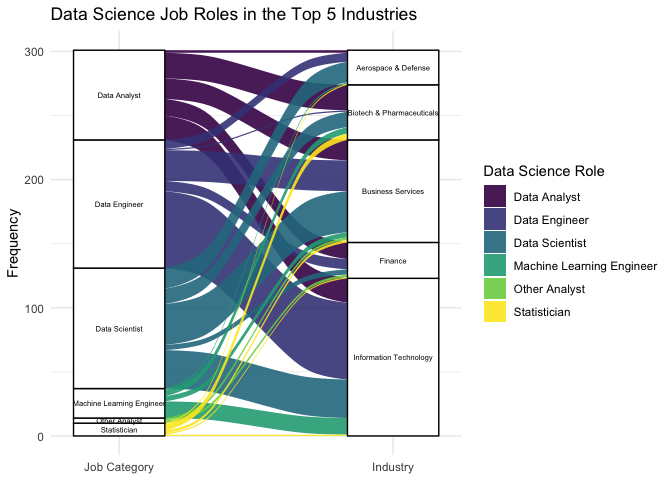
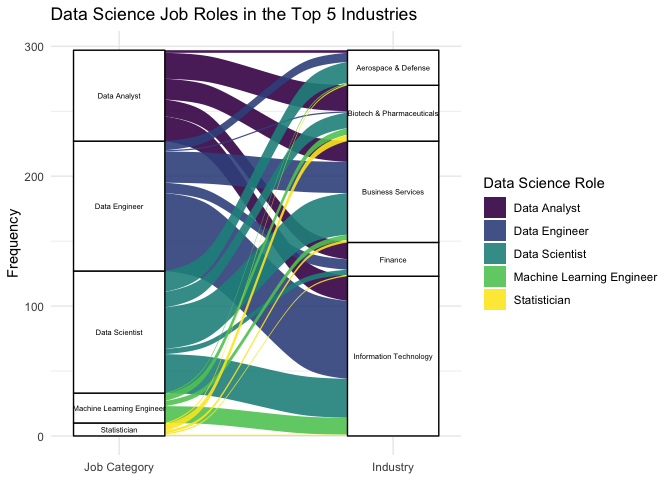
updated the graph

diff --git a/EDA/Job_Types.md b/EDA/Job_Types.md
@@ -147,7 +147,7 @@ ds_filter3 <- ds_filter2 %>%
 ds_filter2 <- ds_filter2 %>%
   filter(industry == ds_filter3$industry) %>%
   filter(!is.na(job_category)) %>%
-  filter(job_category == "Data Analyst" | job_category == "Data Engineer" | job_category == "Data Scientist" | job_category == "Machine Learning Engineer" | job_category == "Statistician" | job_category == "Other Analyst")
+  filter(job_category == "Data Analyst" | job_category == "Data Engineer" | job_category == "Data Scientist" | job_category == "Machine Learning Engineer" | job_category == "Statistician")
 
 df <- table(ds_filter2$job_category, ds_filter2$industry)
 dff <- data.frame(df)
